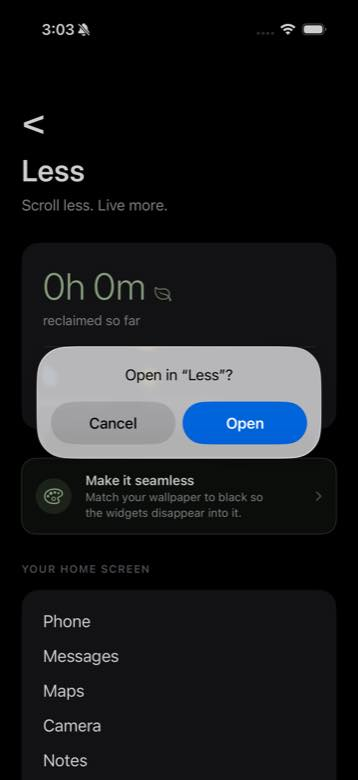
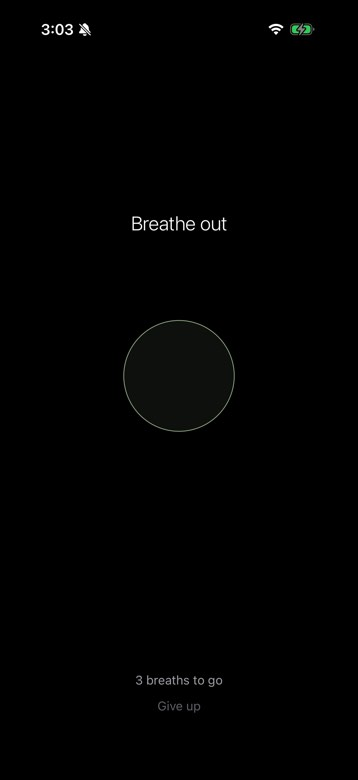
Real simulator screenshots for site showcase, add widgets and stats slides

diff --git a/website/app/page.tsx b/website/app/page.tsx
@@ -41,8 +41,8 @@ function BreatheMock() {
 
 const slides = [
   {
-    src: "/screens/home-ink.jpg",
-    alt: "Less home screen in Ink theme",
+    src: "/screens/home-widgets.jpg",
+    alt: "iPhone home screen with the Less widget listing essential apps",
     title: "Only what you need.",
     body: "Two widgets replace your app grid with a plain text list of your essential apps. Everything else stays out of sight.",
     mock: <HomeMock />,
@@ -53,6 +53,13 @@ const slides = [
     title: "Breathe before you scroll.",
     body: "Distracting apps open only after a guided breathing exercise. Just enough friction to ask: do I actually want this?",
     mock: <BreatheMock />,
+  },
+  {
+    src: "/screens/home-ink.jpg",
+    alt: "Less app showing time reclaimed and opens avoided",
+    title: "Watch the time come back.",
+    body: "Every pause you finish and every scroll you skip adds up. Less keeps score of the hours you take back.",
+    mock: <HomeMock />,
   },
   {
     src: "/screens/home-paper.jpg",
